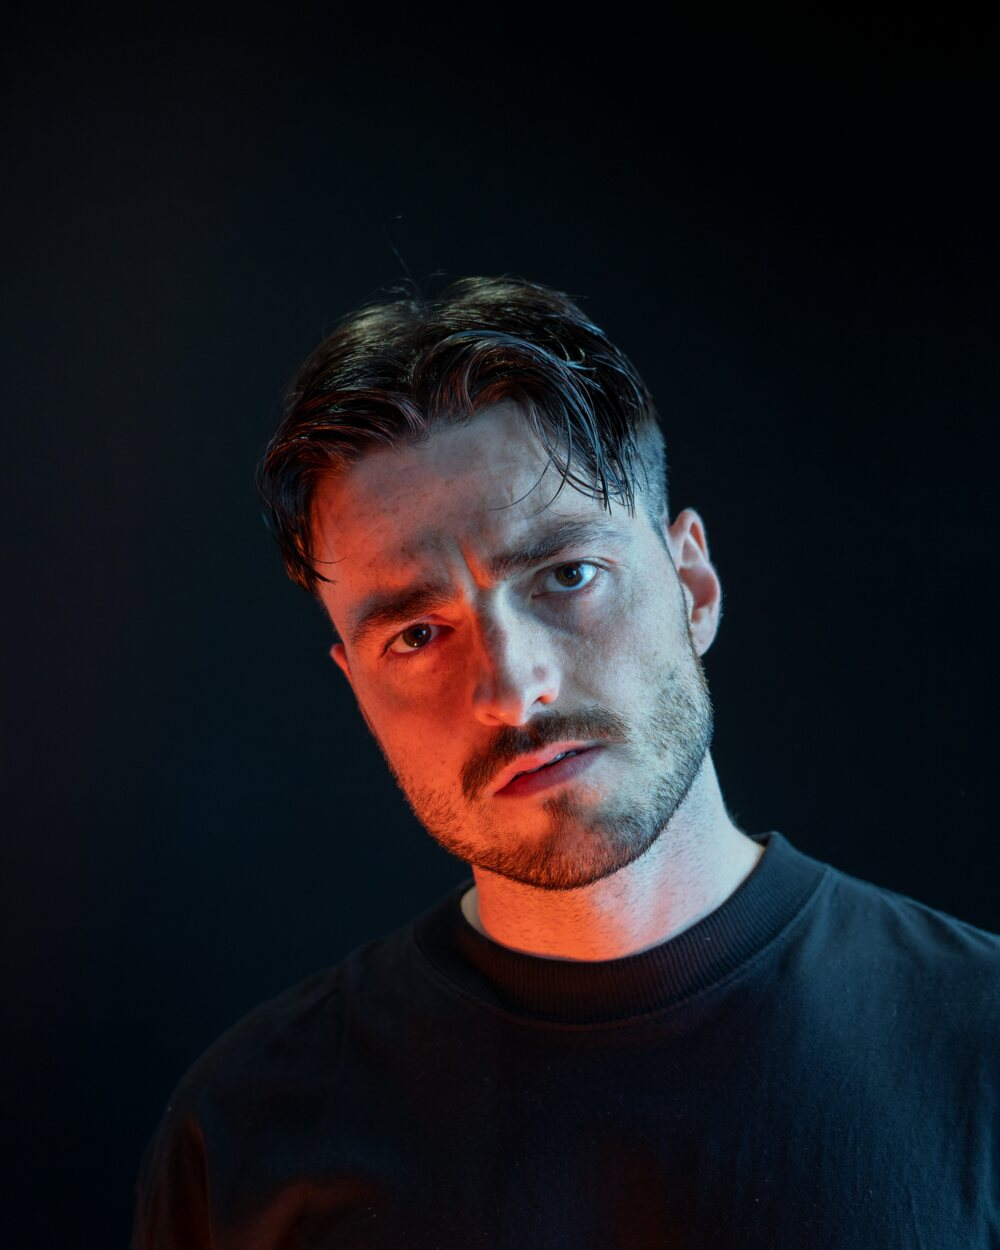
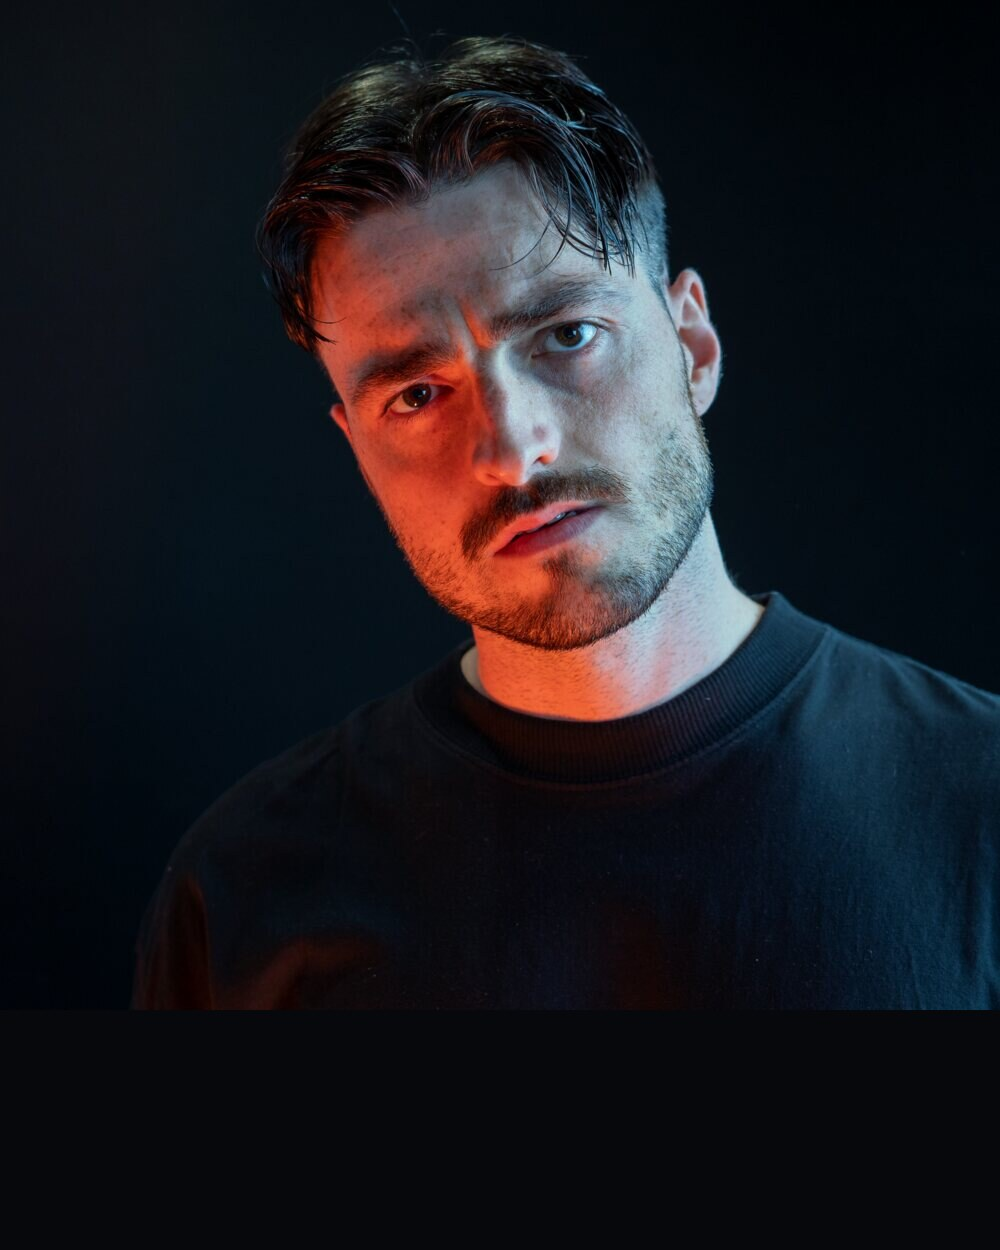
small changes

diff --git a/sam-kitt/index.html b/sam-kitt/index.html
@@ -49,7 +49,7 @@ button,input,select{font:inherit;color:inherit}
 .trailer .frame{position:relative;width:100%;max-width:calc((100svh - 200px) * 9 / 16);margin:0 auto;aspect-ratio:9/16;overflow:hidden}
 .trailer video{position:absolute;inset:0;width:100%;height:100%;object-fit:cover}
 .trailer .shade{display:none}
-.sound{position:absolute;top:max(16px,env(safe-area-inset-top));right:16px;z-index:3;display:flex;align-items:center;gap:8px;padding:9px 14px;border-radius:999px;border:1px solid rgba(255,255,255,.25);background:rgba(0,0,0,.55);backdrop-filter:blur(8px);font-size:12px;font-weight:600;letter-spacing:.08em;text-transform:uppercase;cursor:pointer}
+.sound{position:absolute;bottom:max(16px,env(safe-area-inset-bottom));top:auto;right:16px;z-index:3;display:flex;align-items:center;gap:8px;padding:9px 14px;border-radius:999px;border:1px solid rgba(255,255,255,.25);background:rgba(0,0,0,.55);backdrop-filter:blur(8px);font-size:12px;font-weight:600;letter-spacing:.08em;text-transform:uppercase;cursor:pointer}
 .sound svg{width:16px;height:16px}
 .trailer-cta{padding:14px 16px 18px;max-width:560px;margin:0 auto}
 
@@ -274,7 +274,7 @@ input:focus{border-color:var(--orange)}
   .trailer{position:sticky;top:0;height:100vh;background:transparent;display:flex;align-items:center;justify-content:flex-end}
   .trailer .frame{position:relative;height:min(88vh,860px);width:auto;max-width:none;margin:0;aspect-ratio:9/16;border-radius:22px;overflow:hidden;box-shadow:0 30px 80px rgba(0,0,0,.6),0 0 0 1px rgba(255,255,255,.08)}
   .trailer .shade,.trailer-cta{display:none}
-  .sound{position:absolute;top:16px;right:16px}
+  .sound{position:absolute;bottom:16px;top:auto;right:16px}
   .content{background:transparent;padding:72px 0 72px}
   .inner{margin:0}
   .sticky{display:none}
@@ -420,8 +420,8 @@ input:focus{border-color:var(--orange)}
         </div>
       </section>
       <section class="also"><h2>Catch up on past nights</h2>
-        <a class="also-card" href="../k-65/"><img src="../assets/k65-share.jpg?v=6b36c918" alt=""><div class="g"></div><div class="b"><div><span class="num">002</span><h3>K-65</h3><span class="d">Fri 30 Oct · Electro, breaks, techno</span></div><span class="go">The recap</span></div></a>
-        <a class="also-card" href="../viridity/" style="margin-top:14px"><img src="../assets/viridity-card.jpg?v=c7217446" alt=""><div class="g"></div><div class="b"><div><span class="num">001</span><h3>Viridity</h3><span class="d">Sat 17 Oct · Drum &amp; bass, live vocals</span></div><span class="go">The recap</span></div></a>
+        <a class="also-card" href="../k-65/"><img src="../assets/k65-tile.jpg?v=54e205d2" alt=""><div class="g"></div><div class="b"><div><span class="num">002</span><h3>K-65</h3><span class="d">Fri 30 Oct · Electro, breaks, techno</span></div><span class="go">The recap</span></div></a>
+        <a class="also-card" href="../viridity/" style="margin-top:14px"><img src="../assets/viridity-tile.jpg?v=98a1b34e" alt=""><div class="g"></div><div class="b"><div><span class="num">001</span><h3>Viridity</h3><span class="d">Sat 17 Oct · Drum &amp; bass, live vocals</span></div><span class="go">The recap</span></div></a>
       </section>
       <section class="mission" aria-label="Why you matter">
         <div class="mk">Why you matter</div>

diff --git a/index.html b/index.html
@@ -81,6 +81,11 @@ h1 .six{color:var(--red)}
 @media (min-width:760px) and (max-width:999px){.ev.about{grid-column:1 / -1;aspect-ratio:16/9}}
 @media (min-width:760px){.events{grid-template-columns:1fr 1fr}.wrap{padding-top:64px}}
 @media (min-width:1000px){.events{grid-template-columns:1fr 1fr 1fr}}
+@media (max-width:759px){
+  .events.past{display:flex;grid-template-columns:none;gap:14px;overflow-x:auto;overflow-y:visible;-webkit-overflow-scrolling:touch;scroll-snap-type:none;overscroll-behavior-x:contain;margin:0 -16px;padding:0 16px 10px;scrollbar-width:none}
+  .events.past::-webkit-scrollbar{display:none}
+  .events.past>.ev{flex:0 0 82%;scroll-snap-align:none}
+}
 </style>
 </head>
 <body>
@@ -123,7 +128,7 @@ h1 .six{color:var(--red)}
       <div class="body">
         <span class="num"><b>Relive</b> &middot; 002</span><h2>K-65</h2>
         <p class="date">Fri 30 Oct &middot; Electro, breaks, techno &middot; Filmed live</p>
-        <span class="btn ghost">Hear the night &rarr;</span>
+        <span class="btn ghost">Experience the night &rarr;</span>
       </div>
     </a>
     <a class="ev done" href="viridity/">
@@ -131,7 +136,7 @@ h1 .six{color:var(--red)}
       <div class="body">
         <span class="num"><b>Relive</b> · 001</span><h2>Viridity</h2>
         <p class="date">Sat 17 Oct · Drum &amp; bass, live vocals · Filmed live</p>
-        <span class="btn ghost">Hear the night →</span>
+        <span class="btn ghost">Experience the night →</span>
       </div>
     </a>
   </div>

diff --git a/what-is-6feet-deep/index.html b/what-is-6feet-deep/index.html
@@ -43,7 +43,7 @@ a{color:inherit;text-decoration:none}
 .vid video{position:absolute;inset:0;width:100%;height:100%;object-fit:cover}
 .vid .vcap{position:absolute;left:0;right:0;bottom:0;padding:38px 16px 16px;background:linear-gradient(to top,rgba(0,0,0,.85),rgba(0,0,0,.35) 55%,transparent);font-weight:800;font-size:18px;pointer-events:none}
 .vid .vcap small{display:block;font-size:11px;letter-spacing:.18em;text-transform:uppercase;color:var(--orange);font-weight:700;margin-bottom:3px}
-.vmute{position:absolute;top:10px;right:10px;z-index:3;width:40px;height:40px;border-radius:50%;border:none;background:rgba(0,0,0,.5);color:#fff;cursor:pointer;display:flex;align-items:center;justify-content:center;-webkit-backdrop-filter:blur(4px);backdrop-filter:blur(4px)}
+.vmute{position:absolute;top:10px;left:10px;z-index:3;width:40px;height:40px;border-radius:50%;border:none;background:rgba(0,0,0,.5);color:#fff;cursor:pointer;display:flex;align-items:center;justify-content:center;-webkit-backdrop-filter:blur(4px);backdrop-filter:blur(4px)}
 .vmute:hover{background:var(--orange);color:#000}
 .vmute svg{width:18px;height:18px;fill:currentColor}
 .kicker{font-size:11px;font-weight:700;letter-spacing:.22em;text-transform:uppercase;color:var(--orange);margin-bottom:10px}
